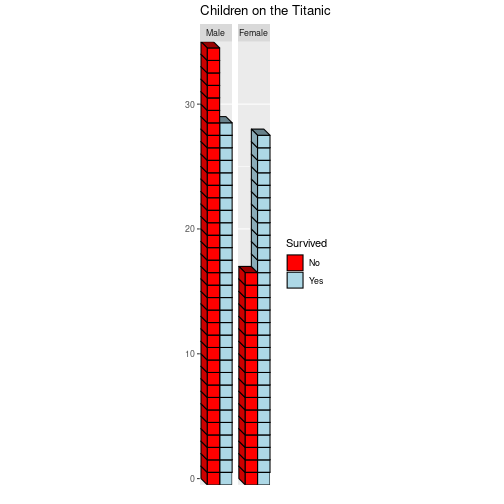
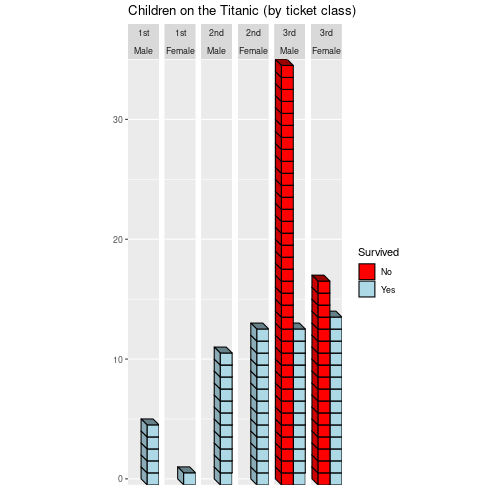
docs: Tweak 3D bar chart example

Changed region(s): [[0.2381, 0.0, 0.7143, 0.9821], [0.6845, 0.4762, 0.8036, 0.5952]]

diff --git a/README.md b/README.md
@@ -277,17 +277,17 @@ library("dplyr")
 ```r
 library("ggplot2")
 df <- as.data.frame(datasets::Titanic) |>
-        filter(Age == "Child") |>
-        group_by(Sex, Survived) |>
+        filter(Age == "Child", Freq > 0) |>
+        group_by(Sex, Survived, Class) |>
         summarize(Freq = seq.int(sum(Freq)), .groups = "drop")
 ggplot(df, aes(x = Survived, y = Freq, fill = Survived)) +
-    facet_grid(cols = vars(Sex)) +
+    facet_grid(cols = vars(Class, Sex)) +
     coord_fixed() +
     geom_oblicubes(yoffset = -0.5, zoffset = -0.5, angle = -45, scale = 0.7) +
     scale_fill_manual(values = c("Yes" = "lightblue", "No" = "red")) +
     scale_y_continuous(expand = expansion(), name = "") +
     scale_x_discrete(name = "", breaks = NULL) +
-    labs(title = "Children on the Titanic")
+    labs(title = "Children on the Titanic (by ticket class)")
 ```
 
 ![](man/figures/README-barchart-1.png)
